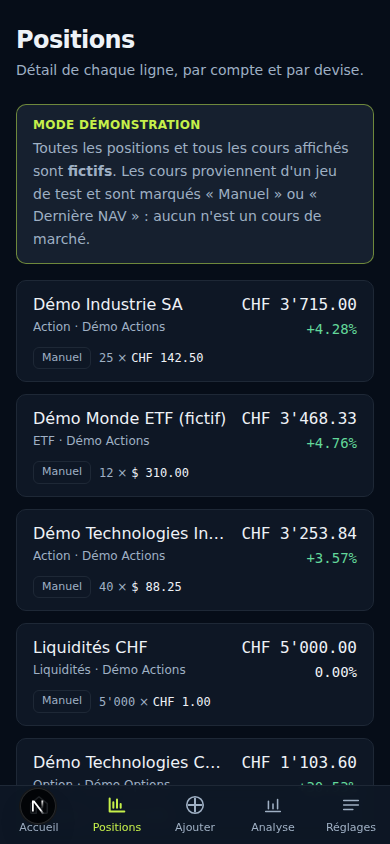
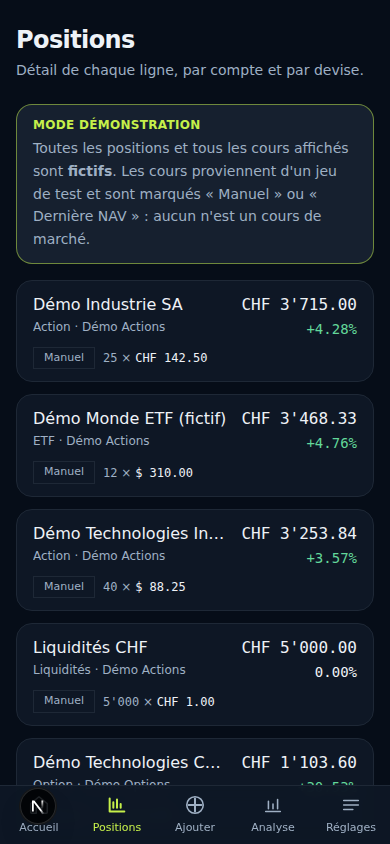
feat(portfolio-lab): DS-01 — aligner rayons et taille du chiffre dominant
Les rayons étaient restés à l'échelle d'origine — carte 16 px, contrôle
10 px — alors que le système de design V2 demande 18 à 22 pour une carte
et 14 à 18 pour un contrôle. Une interface dont les cartes sont moins
arrondies que ses boutons paraît bâclée sans qu'aucune ligne de code ne
semble fautive.

Nouvelle échelle : sm 10, md 16, lg 20, plus un rayon xl à 26 pour le
bloc dominant de l'accueil. Les pastilles deviennent des puces
pleinement arrondies, comme le prévoit le système.

`radius.test.ts` recopie les plages du système et vérifie aussi que
l'échelle croît strictement : deux rôles au même arrondi effaceraient la
hiérarchie visuelle.

Le chiffre dominant passe de 34 à 40 px, dans la plage 36–44 demandée
pour la balance affichée sur mobile.

Vérifications : lint, typecheck, 707 tests unitaires, build, 325
parcours E2E en mode démonstration et 144 sur le build de production.
Captures APRÈS régénérées.

Claude-Session: https://claude.ai/code/session_01RNVDieqZR492GfWvi5pPvj

diff --git a/projects/portfolio-lab/packages/ui/src/radius.test.ts b/projects/portfolio-lab/packages/ui/src/radius.test.ts
@@ -1,0 +1,39 @@
+import { describe, expect, it } from "vitest";
+
+import { radiusTokens } from "./tokens.js";
+
+/**
+ * Plages du système de design V2, en pixels.
+ *
+ * Elles sont recopiées ici pour que le test dise **pourquoi** une valeur est
+ * refusée. Une échelle de rayons dérive facilement : une carte à 10px et un
+ * bouton à 16px donnent une interface qui paraît bâclée sans qu'aucune ligne de
+ * code ne semble fautive.
+ */
+const RANGES = {
+  sm: [8, 12],
+  md: [14, 18],
+  lg: [18, 22],
+  xl: [24, 28],
+} as const;
+
+describe("échelle des rayons", () => {
+  it.each(Object.entries(RANGES))("%s reste dans la plage du système", (name, [min, max]) => {
+    const value = radiusTokens[name as keyof typeof RANGES];
+    expect(value).toBeGreaterThanOrEqual(min);
+    expect(value).toBeLessThanOrEqual(max);
+  });
+
+  it("croît strictement du plus petit au plus grand", () => {
+    // Sans quoi deux rôles différents obtiendraient le même arrondi et la
+    // hiérarchie visuelle disparaîtrait.
+    const ordered = [radiusTokens.sm, radiusTokens.md, radiusTokens.lg, radiusTokens.xl];
+    for (let i = 1; i < ordered.length; i += 1) {
+      expect(ordered[i]).toBeGreaterThan(ordered[i - 1] as number);
+    }
+  });
+
+  it("garde une pastille complètement arrondie", () => {
+    expect(radiusTokens.pill).toBeGreaterThanOrEqual(999);
+  });
+});

diff --git a/projects/portfolio-lab/apps/web/src/components/ui/styles.ts b/projects/portfolio-lab/apps/web/src/components/ui/styles.ts
@@ -50,7 +50,7 @@ export type Tone = "neutral" | "positive" | "negative" | "warning" | "stale" | "
  * écran, sans quoi plus rien ne domine.
  */
 export const STAT_VALUE_SIZE: Readonly<Record<StatSize, string>> = {
-  hero: "text-[2.125rem] leading-none font-semibold tracking-tight",
+  hero: "text-[2.5rem] leading-none font-semibold tracking-tight",
   lg: "text-2xl leading-tight font-semibold tracking-tight",
   md: "text-lg leading-tight font-semibold",
   sm: "text-sm leading-tight font-medium",
@@ -91,7 +91,7 @@ export const CHIP_TONE: Readonly<Record<Tone, string>> = {
 };
 
 export const CHIP_BASE =
-  "inline-flex items-center gap-1 rounded-token-sm border px-2 py-0.5 text-[11px] font-medium";
+  "inline-flex items-center gap-1 rounded-token-pill border px-2.5 py-0.5 text-[11px] font-medium";
 
 /* ---------------------------------------------------------------- Button */
 

diff --git a/projects/portfolio-lab/packages/ui/src/tokens.ts b/projects/portfolio-lab/packages/ui/src/tokens.ts
@@ -67,10 +67,23 @@ export const spacingTokens = {
   "3xl": 48,
 } as const;
 
+/**
+ * Rayons, par **rôle** et non par taille abstraite.
+ *
+ * Les valeurs suivent les plages du système de design V2 : un contrôle est plus
+ * arrondi qu'un petit badge, une carte plus qu'un contrôle, et le bloc dominant
+ * de l'accueil plus que tout le reste. `radius.test.ts` rejoue ces plages.
+ */
 export const radiusTokens = {
-  sm: 6,
-  md: 10,
-  lg: 16,
+  /** Petits éléments posés dans un bloc : messages, encarts secondaires. */
+  sm: 10,
+  /** Contrôles : boutons, champs de saisie, onglets. */
+  md: 16,
+  /** Cartes et sections. */
+  lg: 20,
+  /** Bloc dominant d'un écran — le patrimoine total sur l'accueil. */
+  xl: 26,
+  /** Pastilles et puces. */
   pill: 999,
 } as const;
 

diff --git a/projects/portfolio-lab/apps/web/src/components/ui/styles.test.ts b/projects/portfolio-lab/apps/web/src/components/ui/styles.test.ts
@@ -123,7 +123,7 @@ describe("échelle des chiffres", () => {
   });
 
   it("décroît de hero à sm", () => {
-    expect(STAT_VALUE_SIZE.hero).toContain("2.125rem");
+    expect(STAT_VALUE_SIZE.hero).toContain("2.5rem");
     expect(STAT_VALUE_SIZE.lg).toContain("text-2xl");
     expect(STAT_VALUE_SIZE.md).toContain("text-lg");
     expect(STAT_VALUE_SIZE.sm).toContain("text-sm");

diff --git a/projects/portfolio-lab/packages/ui/src/tokens.css b/projects/portfolio-lab/packages/ui/src/tokens.css
@@ -29,9 +29,10 @@
   --pl-space-2xl: 32px;
   --pl-space-3xl: 48px;
 
-  --pl-radius-sm: 6px;
-  --pl-radius-md: 10px;
-  --pl-radius-lg: 16px;
+  --pl-radius-sm: 10px;
+  --pl-radius-md: 16px;
+  --pl-radius-lg: 20px;
+  --pl-radius-xl: 26px;
   --pl-radius-pill: 999px;
 
   --pl-touch-target: 44px;

diff --git a/projects/portfolio-lab/apps/web/src/app/globals.css b/projects/portfolio-lab/apps/web/src/app/globals.css
@@ -39,6 +39,7 @@
   --radius-token-sm: var(--pl-radius-sm);
   --radius-token-md: var(--pl-radius-md);
   --radius-token-lg: var(--pl-radius-lg);
+  --radius-token-xl: var(--pl-radius-xl);
 }
 
 @layer base {

diff --git a/projects/portfolio-lab/STATUS.md b/projects/portfolio-lab/STATUS.md
@@ -78,6 +78,11 @@ intouchables ».
   avec tables de classes testées : cible tactile de 44 px garantie à toutes
   les tailles de bouton, aplat d'accent réservé à la variante primaire, ton
   défini pour chaque état ;
+- **échelle de rayons alignée sur le système de design** : les cartes passent de
+  16 à 20 px, les contrôles de 10 à 16 px, les pastilles deviennent des puces
+  pleinement arrondies, et un rayon `xl` est ajouté pour le bloc dominant de
+  l'accueil. `radius.test.ts` recopie les plages du système et refuse une
+  dérive ;
 - **script de captures** `scripts/design-shots.mjs`, qui produit les paires
   AVANT / APRÈS de chaque lot sur 390×844, 430×932 et desktop.
 
